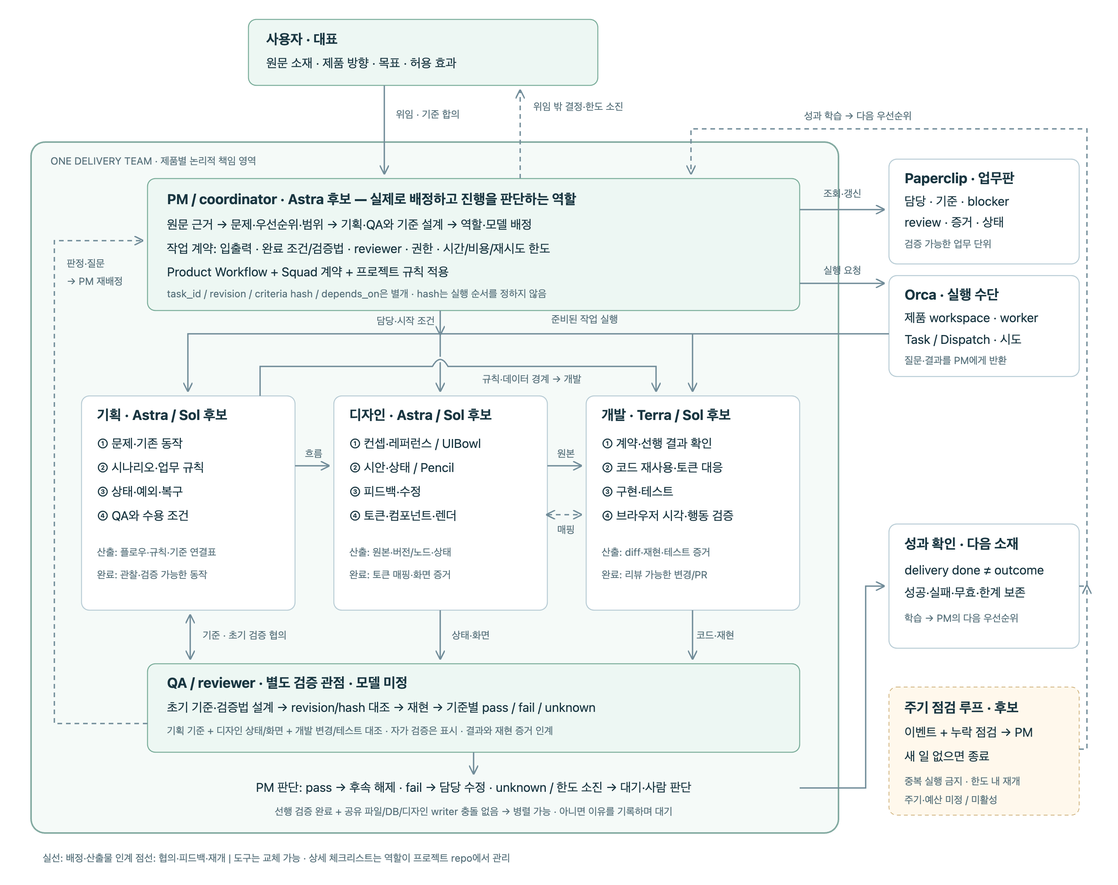
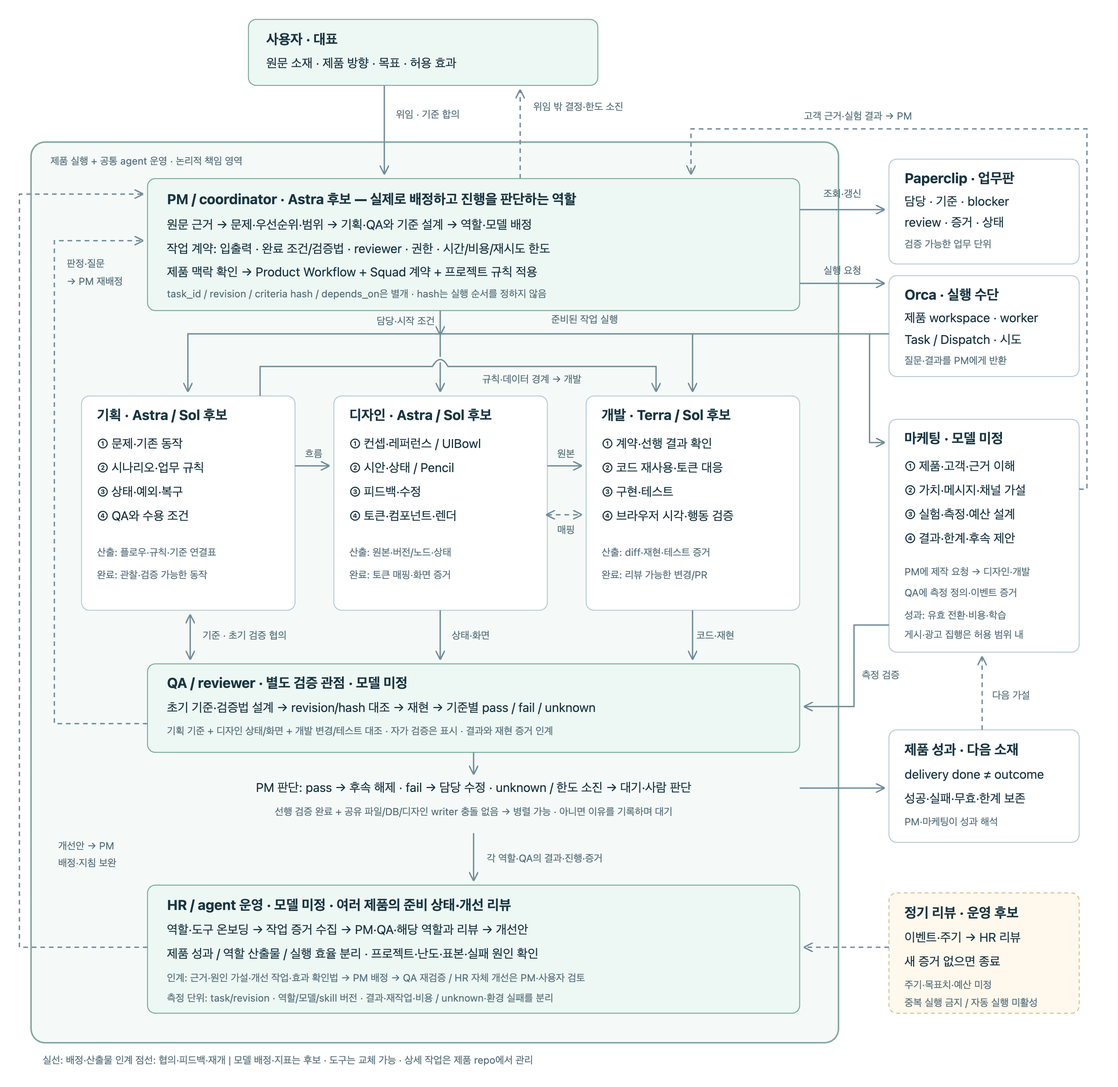
Connect marketing and HR reviews to the orchestration flow

diff --git a/tasks/model-process.html b/tasks/model-process.html
@@ -8,11 +8,11 @@
 <p><b>PM의 업무 계약은 도구와 분리합니다.</b> 아래는 현재 연결안: Paperclip은 업무판, Orca는 제품별 worker의 실행 수단입니다.</p>
 <section id="team" aria-labelledby="team-title">
 <h2 id="team-title">전체 업무 · 역할 내부 작업 · 인계와 검증</h2>
-<p>한 팀의 흐름을 한 캔버스로 펼쳤습니다. 역할과 모델 배정은 운영안이며, 상시 실행 중인 agent 구성이 아닙니다.</p>
-<div class="canvas"><svg viewBox="0 0 1420 1120" role="img" aria-label="사용자에서 PM, 기획 디자인 개발 QA와 도구를 거쳐 검증 결과와 다음 작업이 다시 PM으로 돌아오는 통합 업무 흐름">
+<p>제품 실행과 마케팅, 공통 HR 리뷰를 한 캔버스로 펼쳤습니다. 역할과 모델 배정은 운영안이며, 상시 실행 중인 agent 구성이 아닙니다.</p>
+<div class="canvas"><svg viewBox="0 0 1420 1380" role="img" aria-label="사용자에서 PM, 기획 디자인 개발 QA 마케팅 HR과 도구를 거쳐 검증 결과와 다음 작업이 다시 PM으로 돌아오는 통합 업무 흐름">
 <defs><marker id="arrow" markerWidth="7" markerHeight="7" refX="6" refY="3.5" orient="auto-start-reverse"><path d="M0 0L7 3.5L0 7" fill="none" stroke="#718c99"/></marker></defs>
-<rect x="30" y="173" width="1040" height="890" rx="18" fill="#f5faf8" stroke="#83aaa1" stroke-width="2"/>
-<text x="55" y="202" class="small">ONE DELIVERY TEAM · 제품별 논리적 책임 영역</text>
+<rect x="30" y="173" width="1040" height="1160" rx="18" fill="#f5faf8" stroke="#83aaa1" stroke-width="2"/>
+<text x="55" y="202" class="small">제품 실행 + 공통 agent 운영 · 논리적 책임 영역</text>
 <rect x="310" y="15" width="450" height="85" rx="10" class="node green"/>
 <text x="333" y="47" class="title">사용자 · 대표</text><text x="333" y="77">원문 소재 · 제품 방향 · 목표 · 허용 효과</text>
 <path d="M485 100V213" class="line"/><text x="500" y="142" class="small">위임 · 기준 합의</text>
@@ -21,7 +21,7 @@
 <text x="205" y="253" class="title">PM / coordinator · Astra 후보 — 실제로 배정하고 진행을 판단하는 역할</text>
 <text x="205" y="285">원문 근거 → 문제·우선순위·범위 → 기획·QA와 기준 설계 → 역할·모델 배정</text>
 <text x="205" y="316">작업 계약: 입출력 · 완료 조건/검증법 · reviewer · 권한 · 시간/비용/재시도 한도</text>
-<text x="205" y="346">Product Workflow + Squad 계약 + 프로젝트 규칙 적용</text>
+<text x="205" y="346">제품 맥락 확인 → Product Workflow + Squad 계약 + 프로젝트 규칙 적용</text>
 <text x="205" y="373" class="small">task_id / revision / criteria hash / depends_on은 별개 · hash는 실행 순서를 정하지 않음</text>
 <path d="M1020 260H1128" class="line"/><text x="1075" y="244" text-anchor="middle" class="small">조회·갱신</text>
 <rect x="1135" y="195" width="245" height="135" rx="10" class="node"/>
@@ -62,14 +62,33 @@
 <path d="M600 959V986" class="line"/>
 <text x="600" y="1010" text-anchor="middle">PM 판단: pass → 후속 해제 · fail → 담당 수정 · unknown / 한도 소진 → 대기·사람 판단</text>
 <text x="600" y="1040" text-anchor="middle" class="small">선행 검증 완료 + 공유 파일/DB/디자인 writer 충돌 없음 → 병렬 가능 · 아니면 이유를 기록하며 대기</text>
-<rect x="1135" y="665" width="245" height="160" rx="10" class="node"/>
-<text x="1155" y="697" class="title">성과 확인 · 다음 소재</text><text x="1155" y="730">delivery done ≠ outcome</text><text x="1155" y="759">성공·실패·무효·한계 보존</text><text x="1155" y="791" class="small">학습 → PM의 다음 우선순위</text>
-<path d="M1020 1005H1105V745H1128" class="line"/>
-<path d="M1380 745H1390V156H880V213" class="line return"/><text x="1095" y="144" text-anchor="middle" class="small">성과 학습 → 다음 우선순위</text>
-<rect x="1135" y="875" width="245" height="165" rx="10" fill="#fff8ec" stroke="#cfb17b" stroke-dasharray="5 4"/>
-<text x="1155" y="908" class="title">주기 점검 루프 · 후보</text><text x="1155" y="939">이벤트 + 누락 점검 → PM</text><text x="1155" y="970">새 일 없으면 종료</text><text x="1155" y="1001" class="small">중복 실행 금지 · 한도 내 재개</text><text x="1155" y="1025" class="small">주기·예산 미정 / 미활성</text>
-<path d="M1380 955H1390V745" class="line return"/>
-<text x="45" y="1100" class="small">실선: 배정·산출물 인계   점선: 협의·피드백·재개   |   도구는 교체 가능 · 상세 체크리스트는 역할이 프로젝트 repo에서 관리</text>
+<rect x="1135" y="530" width="245" height="300" rx="10" class="node"/>
+<text x="1155" y="561" class="title">마케팅 · 모델 미정</text>
+<text x="1155" y="596">① 제품·고객·근거 이해</text><text x="1155" y="627">② 가치·메시지·채널 가설</text>
+<text x="1155" y="658">③ 실험·측정·예산 설계</text><text x="1155" y="689">④ 결과·한계·후속 제안</text>
+<text x="1155" y="731" class="small">PM에 제작 요청 → 디자인·개발</text><text x="1155" y="758" class="small">QA에 측정 정의·이벤트 증거</text>
+<text x="1155" y="787" class="small">성과: 유효 전환·비용·학습</text><text x="1155" y="812" class="small">게시·광고 집행은 허용 범위 내</text>
+<path d="M1110 420V560H1128" class="line"/>
+<path d="M1135 795H1090V900H1027" class="line"/><text x="1100" y="864" class="small">측정 검증</text>
+<path d="M1380 620H1390V156H880V213" class="line return"/><text x="1095" y="144" text-anchor="middle" class="small">고객 근거·실험 결과 → PM</text>
+<rect x="1135" y="930" width="245" height="145" rx="10" class="node"/>
+<text x="1155" y="962" class="title">제품 성과 · 다음 소재</text><text x="1155" y="993">delivery done ≠ outcome</text>
+<text x="1155" y="1024">성공·실패·무효·한계 보존</text><text x="1155" y="1053" class="small">PM·마케팅이 성과 해석</text>
+<path d="M1020 1005H1128" class="line"/><path d="M1255 930V837" class="line return"/><text x="1268" y="890" class="small">다음 가설</text>
+<rect x="180" y="1130" width="840" height="165" rx="10" class="node green"/>
+<text x="205" y="1162" class="title">HR / agent 운영 · 모델 미정 · 여러 제품의 준비 상태·개선 리뷰</text>
+<text x="205" y="1193">역할·도구 온보딩 → 작업 증거 수집 → PM·QA·해당 역할과 리뷰 → 개선안</text>
+<text x="205" y="1224">제품 성과 / 역할 산출물 / 실행 효율 분리 · 프로젝트·난도·표본·실패 원인 확인</text>
+<text x="205" y="1254" class="small">인계: 근거·원인 가설·개선 작업·효과 확인법 → PM 배정 → QA 재검증 / HR 자체 개선은 PM·사용자 검토</text>
+<text x="205" y="1280" class="small">측정 단위: task/revision · 역할/모델/skill 버전 · 결과·재작업·비용 / unknown·환경 실패를 분리</text>
+<path d="M600 1063V1123" class="line"/><text x="617" y="1100" class="small">각 역할·QA의 결과·진행·증거</text>
+<path d="M180 1210H15V240H173" class="line return"/><text x="65" y="1084" class="small">개선안 → PM</text><text x="65" y="1106" class="small">배정·지침 보완</text>
+<rect x="1135" y="1140" width="245" height="155" rx="10" fill="#fff8ec" stroke="#cfb17b" stroke-dasharray="5 4"/>
+<text x="1155" y="1172" class="title">정기 리뷰 · 운영 후보</text>
+<text x="1155" y="1203">이벤트·주기 → HR 리뷰</text><text x="1155" y="1234">새 증거 없으면 종료</text>
+<text x="1155" y="1263" class="small">주기·목표치·예산 미정</text><text x="1155" y="1286" class="small">중복 실행 금지 / 자동 실행 미활성</text>
+<path d="M1135 1210H1027" class="line return"/>
+<text x="45" y="1360" class="small">실선: 배정·산출물 인계   점선: 협의·피드백·재개   |   모델 배정·지표는 후보 · 도구는 교체 가능 · 상세 작업은 제품 repo에서 관리</text>
 </svg></div>
 <p class="note">QA는 최초 기준 설계부터 참여합니다. 결함은 해당 역할로 돌아가고, 범위·기준·권한 변경은 PM이 조율합니다. 역할 간 모든 양방향 인계 조건은 아래 표에 이어집니다.</p>
 <h3>각 역할은 내부에서 어떻게 작업하는가</h3>
@@ -79,6 +98,8 @@
 <article id="role-design" class="role-lane"><div><h4>디자인</h4><span class="badge">Astra / Sol 후보</span></div><div><ol><li>플로우·컨셉 확인</li><li>레퍼런스·선택 이유</li><li>시안·인터랙션 상태</li><li>피드백·수정</li><li>토큰·컴포넌트·렌더</li></ol><p><b>현재 도구</b> UIBowl 레퍼런스 → Pencil 원본. <b>개발·QA에</b> 버전/노드·상태·토큰 매핑·viewport 증거·미구현 목록.</p><p><b>막히면</b> 시각 결함은 디자인 수정, 행동·정책 모순은 기획, 방향 변경은 PM. 공유 원본 writer 충돌은 대기. 캔버스 검증과 FE 완료는 별개.</p></div></article>
 <article id="role-development" class="role-lane"><div><h4>개발</h4><span class="badge">Terra / Sol 후보</span></div><div><ol><li>계약·선행 산출물 확인</li><li>기존 코드·토큰 대응</li><li>작은 변경 구현</li><li>테스트·화면/행동 검증</li><li>리뷰 가능한 변경 인계</li></ol><p><b>받는 것</b> 기획 규칙·디자인 원본·허용 환경 → <b>QA에</b> commit/diff, 실행 환경, 재현 절차, 기준별 증거. 첫 도착점은 검증된 FE 변경 PR 제안.</p><p><b>막히면</b> 구현 결함은 개발 수정, 원본/매핑 누락은 디자인, 규칙 모순은 기획, 새 권한·비용은 PM. 자동 배포 권한을 추론하지 않음.</p></div></article>
 <article id="role-qa" class="role-lane"><div><h4>QA / reviewer</h4><span class="badge">검증자·모델 미정</span></div><div><ol><li>초기 기준·검증법 설계</li><li>revision/hash 대조</li><li>정상·예외·회귀 재현</li><li>기준별 판정·증거</li><li>귀환·재검증·PM 보고</li></ol><p><b>받는 것</b> 기획 기준, 디자인 상태/화면, 개발 변경/재현 → <b>PM에</b> pass/fail/unknown, 검증자와 근거. 자가 검증은 독립 검증으로 부르지 않음.</p><p><b>막히면</b> 기준 모호성은 기획·PM, 시각/원본 문제는 디자인, 코드 결함은 개발. 재현 불가는 unknown으로 남기고 필요한 자료를 요청.</p></div></article>
+<article id="role-marketing" class="role-lane"><div><h4>마케팅</h4><span class="badge">모델 미정</span></div><div><ol><li>제품·고객 근거</li><li>포지셔닝·메시지</li><li>채널·실험·측정</li><li>제작·실행 인계</li><li>성과·한계·후속</li></ol><p><b>받는 것</b> PM의 제품 맥락·성과·허용 범위 → <b>PM·디자인·개발에</b> 제작 요구, <b>QA에</b> 측정 정의, <b>HR에</b> 실행·성과 근거.</p><p><b>완료</b> 산출물·측정 확인과 제품 성과를 분리. 데이터 부족은 unknown, 메시지/타깃 가설은 재검토. 게시·광고·연락은 승인된 효과 내에서만 실행.</p></div></article>
+<article id="role-hr" class="role-lane"><div><h4>HR / agent 운영</h4><span class="badge">모델 미정</span></div><div><ol><li>역할·도구 준비</li><li>수행 근거 수집</li><li>직무별 공동 리뷰</li><li>개선 작업 제안</li><li>후속 효과 확인</li></ol><p><b>받는 것</b> 모든 역할의 진행·판정·증거·환경/버전 → <b>PM에</b> 원인 가설·개선안·검증법. 전문 판정은 QA·해당 역할과 함께하며 HR이 단독 채점하지 않음.</p><p><b>완료</b> 근거·비교 조건·미지값과 다음 검토 조건이 명시됨. 근거 부족은 수집 요청, 판정 충돌은 PM/사용자. HR 개선 효과도 PM/사용자가 검토.</p></div></article>
 </div>
 
 <h3 id="handoff-map">역할 간 인계·피드백 계약 <a class="back-link" href="#team">↑ 전체 흐름</a></h3>
@@ -96,9 +117,15 @@
 <tr><td>디자인 ⇄ QA</td><td>상태·viewport·렌더 증거 ⇄ 시각/상태 결함</td><td>잘림·재사용·해당 예외 상태 확인. 원본 검증이 FE E2E를 대신하지 않음.</td></tr>
 <tr><td>개발 ⇄ QA</td><td>diff·환경·재현·테스트 ⇄ 실패 사례·회귀 판정</td><td>기준별 기대/실제 비교. 개발 수정 후 영향 범위를 재검증.</td></tr>
 <tr><td>PM → 다음 작업 / 새 소재</td><td>검증된 완료·남은 일·성과 관찰</td><td>선행 완료·자원 재확인 후 해제. delivery와 outcome을 분리.</td></tr>
+<tr><td>PM ⇄ 마케팅</td><td>제품·고객·목표·한도 ⇄ 가설·제작 요청·성과</td><td>가설과 근거 구분. 실제 성과·기준 변경을 PM이 조율.</td></tr>
+<tr><td>마케팅 ⇄ 기획·디자인·개발</td><td>고객 행동·메시지·캠페인 요구 ⇄ 규칙·원본·구현 제약</td><td>업무 배정은 PM, 전문 인계는 직접. 제품 정책과 게시·비용 권한을 확인.</td></tr>
+<tr><td>마케팅 ⇄ QA</td><td>이벤트·대상·분모·관찰 기간 ⇄ 측정 검증·누락</td><td>측정 동작 통과와 전환 성과를 구분. 자료 부족은 unknown.</td></tr>
+<tr><td>전체 역할 ⇄ HR</td><td>진행·산출물·판정·환경·비용 ⇄ 온보딩·반복 문제 리뷰</td><td>제품·난도·표본을 구분하고 역할/모델/도구 원인을 단정하지 않음.</td></tr>
+<tr><td>HR ⇄ PM·QA</td><td>개선안·전후 비교 기준 ⇄ 배정·재검증·효과</td><td>HR 주관, 전문 판정은 공동. PM은 개선 배정, QA는 검증, 사용자/PM은 HR 리뷰.</td></tr>
 </tbody></table></div>
 <p class="note"><b>공통 인계 봉투:</b> task_id · revision/hash · 입력/권한 · 완료 기준 · 현재 결과/증거 · 남은 일 · 질문 · 외부 효과 · 남은 한도 · 재개 조건. 앱 ID는 별도 연결 기록입니다.</p>
 </section>
+<h2>역할 성과와 HR 리뷰</h2><p>제품 성과·산출물 품질·실행 효율을 분리합니다. 지표 정의/분모·관찰 기간·표본·근거·reviewer를 기록하고, 누락은 unknown으로 둡니다. 기획 누락·디자인 인계·회귀 결함·측정 품질·준비 실패 등은 역할별 개선 후보이며 목표치는 미정입니다. <a href="../docs/role-performance.md">지표 후보·측정 계약·조사 근거</a></p>
 <h2 id="review-loop">주기 점검 루프 · 아직 제안</h2>
 <p class="note"><b>깨움 → 변경 확인 → PM 판단 → 범위 안 실행/대기 → 검증·기록 → 다음 깨움.</b>
 새 일이 없으면 실행 없이 종료하고, 활성 시도가 있으면 중복 시작하지 않습니다.

diff --git a/docs/role-performance.md b/docs/role-performance.md
@@ -1,0 +1,59 @@
+# 역할 성과와 HR 리뷰
+
+상태: 2026-09-10 운영 설계. 역할 계약과 도식에 반영했으며 실제 측정·자동 리뷰는 미실행.
+HR은 AI agent의 역량·온보딩·준비 상태와 리뷰를 관리한다. 사람 채용·인사 평가는 범위 밖이다.
+
+## 책임과 흐름
+
+PM이 제품별 목표·작업을 배정 → 각 역할과 QA가 증거 기록 → HR이 PM·QA·해당 역할과
+리뷰 → PM이 개선 작업 배정 → QA가 재검증 → HR이 효과 추적.
+HR 자체 개선의 효과는 PM·사용자가 검토한다. HR이 모든 전문 판정을 단독 채점하지 않는다.
+제품 공통 맥락: 사용자·문제·현재 기능·근거·이번 목표·repo/원본·권한. PM이 연결하고
+역할이 원본을 확인한다. HR은 해당 지침·도구 접근과 준비 여부를 확인한다.
+
+## 지표 후보
+
+| 역할 | 산출물·과정 | 결과·효과 |
+| --- | --- | --- |
+| PM | 계약 누락으로 생긴 대기·재작업, 근거 있는 우선순위 | 합의한 제품 목표와 후속 학습 |
+| 기획 | 규칙·상태·예외 누락, 검증 가능한 수용 조건 | 기획 모호성에 따른 후속 수정 |
+| 디자인 | 원본·상태·토큰 인계 완전성, 시각 검증 | 사용자 과업 성공·오류·만족도 |
+| 개발 | 기준 충족·재현 가능성·회귀 결함 | 제품별 전달 속도·안정성 |
+| QA | 중요 기준의 검증 범위, 판정 재현성 | 관찰 기간 내 누락 결함·잔여 위험 |
+| 마케팅 | 고객 근거·가설·측정 품질·비용 | 유효 전환·핵심 행동·실험 학습 |
+| HR | 온보딩·도구 준비 실패, 근거 있는 개선안 | 반복 문제 재발·개선 전후 효과 |
+
+목표치와 주기는 미정이다. 산출물 완료와 제품 성과는 별도 판정한다. 서로 다른 제품·난도·
+작업 유형을 합쳐 순위를 매기지 않는다. 작업 수·속도·발견 결함 수만으로 평가하지 않는다.
+DORA는 배포 관찰이 가능한 제품/서비스 단위에서 사용하며 개별 agent 점수로 대체하지 않는다.
+
+## 최소 측정·리뷰 기록
+
+- 대상: project/task ID, criteria revision/hash, 역할·모델·skill/도구 버전.
+- 측정: 지표 정의, 분자/분모(해당 시), 관찰 기간, 표본 수, 기준선·목표 또는 미지값.
+- 근거: 산출물·기준별 판정·reviewer, 재작업 이유, 실행/대기 시간·실제 비용(알 때만).
+- 해석: 제품/산출물/효율 구분, 성공·실패·무효·unknown, 환경/측정 실패와 수행 실패 구분.
+- 개선: 관찰 → 원인 가설 → 담당·변경안 → 전후 비교 기준 → 재검토 조건.
+
+비율은 분모와 표본을 함께 보고하고 기준 변경 전후의 결과를 섞지 않는다. 단순 전후 변화는
+개선의 인과 증거로 단정하지 않는다. 반복 평가 과제도 코드 검사·모델 평가·사람 검토를
+적절히 조합하고 평가자 자체를 점검한다. 비밀·raw 인증/실행 로그는 공유 기록에 넣지 않는다.
+기록은 기존 task/증거를 참조하며 v1 JSON enum·5개 fixture를 확장하지 않는다.
+
+## 정기 리뷰 후보
+
+작업 종료 시 기록, 주간 또는 새 증거가 쌓였을 때 공동 리뷰하는 안이다. 확정된 일정은 없다.
+새 증거 없으면 종료, 활성 개선 작업은 중복 배정하지 않음. 자동 실행의 시간·비용·재시도
+한도는 별도 설정 필요. 지침 변경은 해당 정본 소유 위치에서 수행하며 공통 규칙을 repo로 복제하지 않는다.
+
+## 조사 근거와 적용 경계
+
+- [GitLab calibration](https://handbook.gitlab.com/handbook/engineering/infrastructure-platforms/processes/calibration/): 관리자들과 People Business Partner가 평가를 조정하는 공개 운영 사례.
+- [GitLab PM 역량](https://handbook.gitlab.com/handbook/product/product-management/product-cdf-competencies/): KPI와 역량, 주기 시작 시 성공 기준 합의. 위 agent 지표는 이 사례의 그대로인 복제가 아니다.
+- [DORA](https://dora.dev/guides/dora-metrics/), [SPACE](https://www.microsoft.com/en-us/research/publication/the-space-of-developer-productivity-theres-more-to-it-than-you-think/): 제품별 전달 성과와 다차원 생산성. 개인 활동량 평가와 구분.
+- [HEART 원저자](https://kerryrodden.com/heart): 사용자 경험 측정. 디자이너 개인 점수와 구분.
+- [ISTQB CTFL](https://istqb.org/wp-content/uploads/2024/11/ISTQB_CTFL_Syllabus_v4.0.1.pdf): 위험·커버리지·결함 등 테스트 측정의 참고.
+- [GitLab 마케팅](https://handbook.gitlab.com/handbook/enterprise-data/marketing-analytics/dashboards/demand-generation-dashboard/): 접점·유효 리드·영업 기회·파이프라인을 연결하는 B2B 사례. 제품에 맞게 전환 정의 필요.
+- [Anthropic agent evals](https://www.anthropic.com/engineering/demystifying-evals-for-ai-agents): 반복 평가와 코드·모델·사람 검토 조합.
+
+외부 사례는 공개 문서에서 확인한 범위이며 우리 agent 팀에서의 효과를 검증한 것은 아니다.

diff --git a/skills/squad-model/references/roles.md b/skills/squad-model/references/roles.md
@@ -74,6 +74,34 @@ v1 JSON의 `pm-planning`은 PM과 기획 관점을 함께 담고, `verification`
   기준 변경/한도 소진/판정 권한 부재는 명명된 사람에게 전달.
 - 실패 귀환: 재현 불가는 unknown과 필요한 환경/자료, 기준 모호성은 계약 조율.
 
+## 마케팅
+
+- 입력: PM의 제품·고객 맥락, 원문 근거, 현재 지표, 채널·예산·게시 허용 범위.
+- 책임: 고객 이해 → 가치/메시지 → 채널·실험 → 제작 인계 → 결과·한계·후속 가설.
+- 판단 권한: 합의 범위 내 조사·초안·분석. 실제 게시·연락·광고 지출은 기존 허용 효과 확인.
+- 산출물: 가설·제작 요구, 지표 정의/대상/분모/기간·기준선, 비용 한도, 원문과 결과.
+- 시작: 제품 원본과 이번 목표에 접근 가능. 근거 부족이면 조사로 한정한다.
+- 완료: 합의 산출물과 측정 품질 검증. 제품 성과는 관찰 기간 후 별도 판정하며
+  근거 없는 목표치는 proposed, 데이터 부족은 unknown으로 둔다.
+- 다음 인계: PM에 제작 요청/후속 판단, 기획·디자인·개발에 요구, QA에 측정 증거,
+  HR에 수행 결과와 해석 한계. 업무 재배정은 PM이 조율한다.
+- 실패 귀환: 측정 결함은 개발·QA, 메시지/타깃 가설은 마케팅, 방향·권한은 PM/사용자.
+
+## HR / agent 운영
+
+- 입력: 프로젝트 맥락·역할 지침·도구 준비 상태, 작업별 판정·근거·환경/버전·실제 비용.
+- 책임: agent 온보딩·역량/도구 준비 확인, PM·QA·관련 역할과 리뷰, 반복 문제의 개선 제안.
+- 판단 권한: 근거 정리·준비 부족 보고·개선 제안. 단독 전문 채점·무단 모델 교체·권한 확대는 하지 않는다.
+- 산출물: 관찰·원인 가설·개선 작업·담당 제안·효과 확인법·미지값.
+- 시작: 원문 증거 접근과 비교 가능한 작업 범위. 증거가 없으면 수집 요청으로 한정한다.
+- 완료: 근거/표본·비교 조건·미지값, PM이 배정할 개선안과 다음 검토 조건 명시.
+  개선안 작성과 실제 효과 검증을 구분한다.
+- 다음 인계: PM에 개선 배정, QA·해당 역할에 재검증. HR 개선 효과는 PM/사용자 검토.
+- 실패 귀환: 데이터 누락은 기록 담당, 측정 모호성은 QA·PM, 판정 충돌은 PM/사용자.
+
+두 역할은 문서 계약이며 runtime agent·자동 리뷰를 구성한 것이 아니다. 기존 v1 role enum과
+fixture는 유지한다. [성과 측정·리뷰 운영안](../../../docs/role-performance.md)의 지표는 후보다.
+
 ## 결정 책임
 
 DACI의 Driver/Approver/Contributors/Informed는 결정별 사람·위임 관계다.

diff --git a/docs/operating-model.md b/docs/operating-model.md
@@ -13,6 +13,12 @@
 | 디자인 | 컨셉 → 레퍼런스 → 시안·피드백 → 토큰·컴포넌트·렌더 검토 | 개발·QA에 원본/버전·노드·상태·토큰 매핑·화면 증거 | Astra / Sol |
 | 개발 | 선행 산출물 확인 → 기존 코드 재사용 → 구현 → 테스트·브라우저 검증 | QA에 변경·재현 절차·증거, 리뷰 가능한 PR 제안 | Terra / Sol |
 | QA / reviewer | 초기 기준·검증법 설계 → 기준 revision/hash 확인 → 재현 → pass/fail/unknown | PM에 판정·증거, 해당 역할에 결함·재검증 요청 | 별도 검증자, 모델 미정 |
+| 마케팅 | 제품·고객 → 메시지·채널 → 실험·측정 → 성과 | PM에 제작/후속 요청, 역할에 요구, QA에 측정 근거 | 미정 |
+| HR / agent 운영 | 준비 확인 → 증거 수집 → 공동 리뷰 → 개선안 → 효과 확인 | PM에 개선 배정 요청, QA에 재검증 | 미정 |
+
+HR은 PM·QA·직무와 공동으로 리뷰하며 단독 전문 채점을 맡지 않는다.
+[성과 측정·리뷰 운영안](role-performance.md)에 지표 후보와 조사 근거가 있다.
+HR 자체 개선은 PM/사용자가 검토한다. 실제 역할 runtime·리뷰 일정은 미구성이다.
 
 역할마다 별도 agent를 항상 띄우지는 않습니다. 작업에 필요한 역할을 배정하며,
 작성자가 스스로 검증한 경우에는 자가 검증으로 표시합니다.

diff --git a/README.md b/README.md
@@ -19,6 +19,8 @@
 | 디자인 | 컨셉·레퍼런스·시안·토큰 → 원본·상태·매핑·렌더 증거 | Astra / Sol |
 | 개발 | 코드 재사용·구현·테스트 → 리뷰 가능한 변경·재현 증거 | Terra / Sol |
 | QA | 초기 기준 설계·독립 검증 → 기준별 판정·수정 요청 | 미정 |
+| 마케팅 | 고객·메시지·채널 실험 → 제작 요청·성과·학습 | 미정 |
+| HR / agent 운영 | 온보딩·준비 확인·공동 리뷰 → 개선안·효과 추적 | 미정 |
 
 모델은 배정 후보입니다. 필요한 역할만 실행하며, 자가 검증은 별도로 표시합니다.
 
@@ -49,6 +51,10 @@
 업무 계약은 도구와 분리합니다. 자체 scheduler는 없으며, 제품 간 자동 실행은 미검증입니다.
 
 ## 주기 점검 루프
+
+**성과 개선:** 역할·QA 증거 → HR이 PM·직무와 리뷰 → PM 개선 배정 → QA 재검증.
+제품 성과·산출물 품질·실행 효율을 분리하며, HR의 개선 효과는 PM·사용자가 검토합니다.
+[역할별 지표·리뷰 기준](docs/role-performance.md)은 운영안이며 목표치·리뷰 주기는 미정입니다.
 
 **이벤트·주기 점검 → 변경 확인 → PM 판단 → 실행/대기 → 검증·기록.**
 
